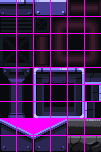
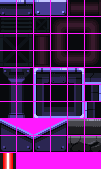
Push

diff --git a/src/Maps/OnlyGitMap.java b/src/Maps/OnlyGitMap.java
@@ -40,21 +40,23 @@ public class OnlyGitMap extends Map {
     }
 
     public static void replaceAllWallTilesInFile() throws IOException {
-        // Try using the relative path first
+        // path
         String path = "MapFiles/only_git_map.txt";
     
         // Read the map file using the updated path
         List<String> lines = Files.readAllLines(Paths.get(path));
     
-        // Modify the lines by replacing all 15 tiles with 7
+        // Modify the lines by replacing all 17 tiles with 7
         for (int i = 0; i < lines.size(); i++) {
             String line = lines.get(i);
-            line = line.replaceAll(" 17 ", " 7 ");  // Replace all 17 tiles with 7
+            line = line.replaceAll(" 54 ", " 7 ");  // Replace all 54 tiles with 7
             lines.set(i, line);
         }
     
         // Write the modified map back to the file
         Files.write(Paths.get(path), lines);
+
+        
     }
     
     

diff --git a/src/Tilesets/CommonTileset.java b/src/Tilesets/CommonTileset.java
@@ -591,6 +591,16 @@ public class CommonTileset extends Tileset {
 
         mapTiles.add(Block52Tile); 
 
+        //block54
+        Frame Block54Frame = new FrameBuilder(getSubImage(9,0))
+        .withScale(tileScale)
+        .build();
+
+        MapTileBuilder Block54Tile = new MapTileBuilder(Block54Frame)
+        .withTileType(TileType.NOT_PASSABLE);
+
+        mapTiles.add(Block54Tile); 
+
 
 
 

diff --git a/src/EnhancedMapTiles/KeyL1.java b/src/EnhancedMapTiles/KeyL1.java
@@ -48,6 +48,8 @@ public void update(Player player) {
      }
     }
 
+    
+
 
     @Override
     public HashMap<String, Frame[]> loadAnimations(SpriteSheet spriteSheet) {
